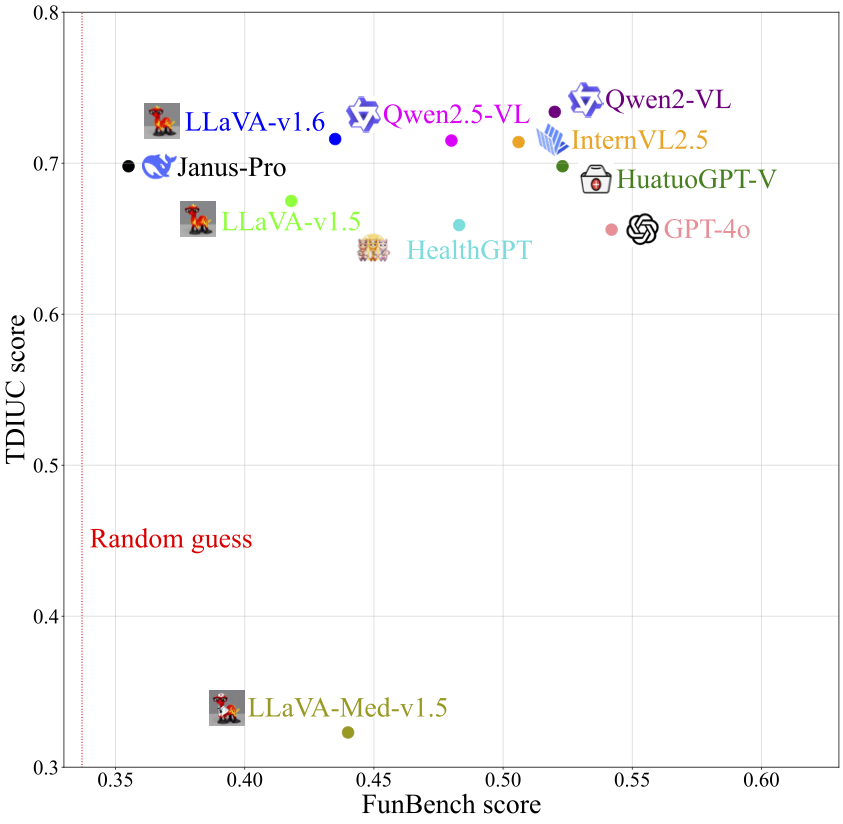
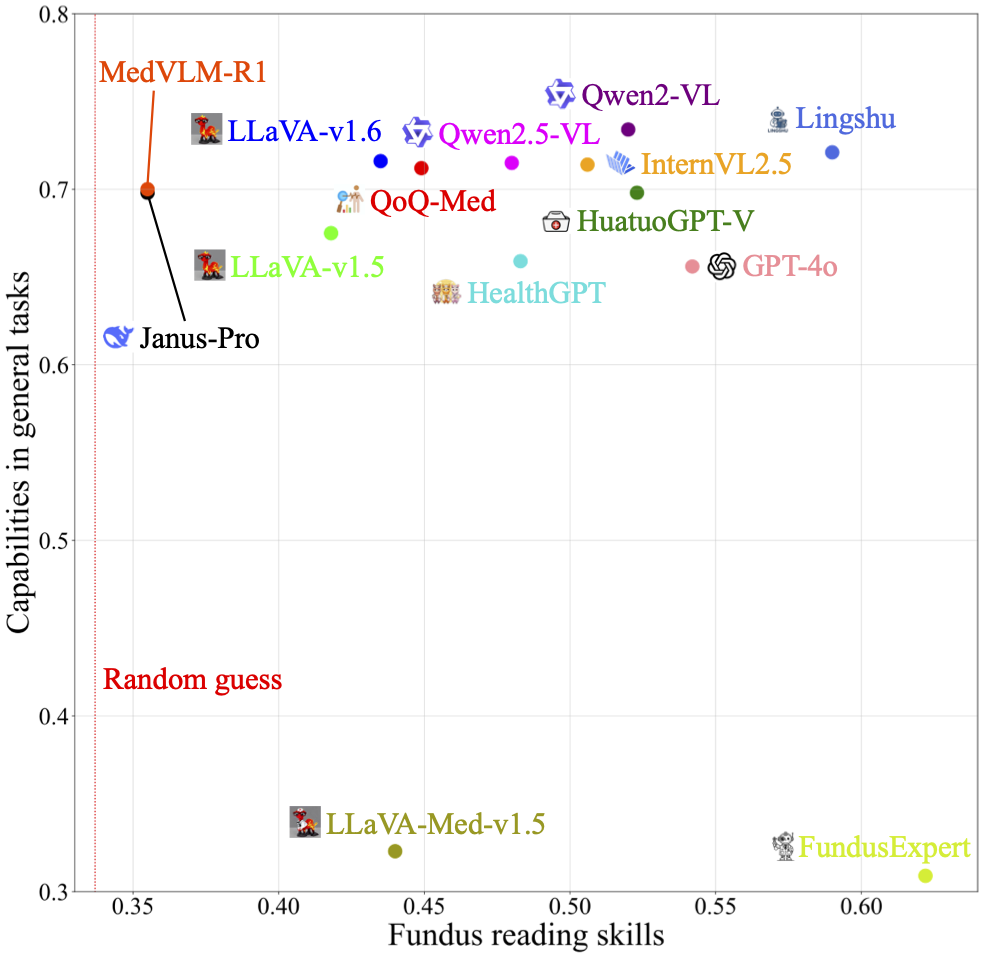
update

diff --git a/README.md b/README.md
@@ -11,10 +11,16 @@
 
 
 ## News
++ [2025-12-21] Add more results.
 + [2025-11-06] Add preprocess script for RETOUCH.
 + [2025-05-13] FunBench has been early accepted by MICCAI 2025! 🎉🎉🎉
 + [2025-03-28] FunBench is publicly available on [Hugging Face](https://huggingface.co/datasets/AIMClab-RUC/FunBench)
   
+
+## TODO
+- [ ] Automated download script for datasets.
+
+
 ## Introduction
 
 Multimodal Large Language Models (MLLMs) have shown significant potential in medical image analysis. However, their capabilities in interpreting fundus images, a critical skill for ophthalmology, remain under-evaluated. Existing benchmarks lack fine-grained task divisions and fail to provide modular analysis of its two key modules, i.e., large language model (LLM) and vision encoder (VE). This paper introduces FunBench, a novel visual question answering (VQA) benchmark designed to comprehensively evaluate MLLMs’ fundus reading skills. FunBench features a hierarchical task organization across four levels (modality perception, anatomy perception, lesion analysis, and disease diagnosis). It also offers three targeted evaluation modes: linear-probe based VE evaluation, knowledge-prompted LLM evaluation, and holistic evaluation. Experiments on ten open-source MLLMs plus GPT-4o reveal significant deficiencies in fundus reading skills, particularly in basic tasks such as laterality recognition. The results highlight the limitations of current MLLMs and emphasize the need for domain-specific training and improved LLMs and VEs.
